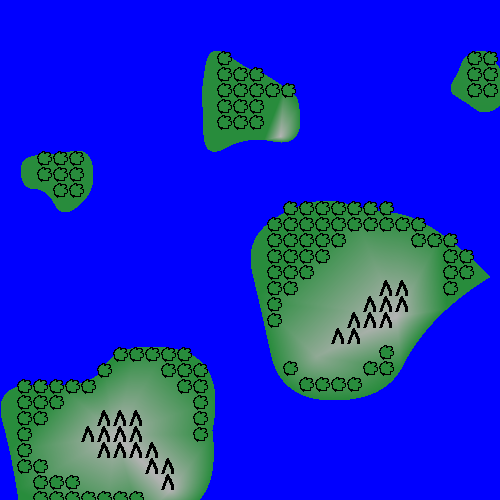
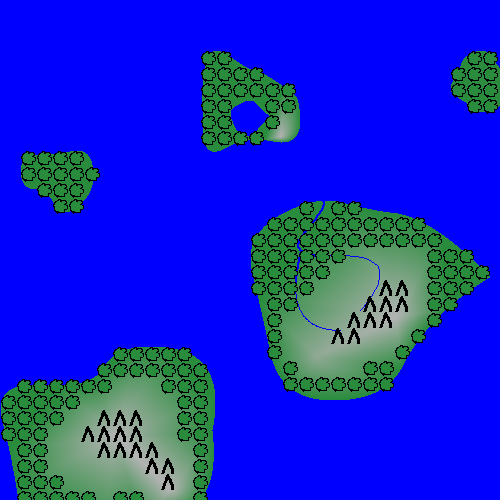
better tree generation

diff --git a/python/River.py b/python/River.py
@@ -24,13 +24,156 @@ class River:
         y_fine = spline_y(t_fine)
         return x_fine,y_fine
     
+    def angle_to_vector(self,angle_degrees):
+        """Konwertuje kąt w stopniach na znormalizowany wektor (dx, dy)."""
+        angle_radians = math.radians(angle_degrees)
+        return (math.cos(angle_radians), math.sin(angle_radians))
+    
+    def generate_river_sine_wave(self,
+        start_point=(0, 0),
+        main_direction_angle=0,  # Kąt w stopniach (0 = wschód, 90 = północ)
+        river_length=500,
+        avg_segment_length=10,
+        base_wave_amplitude=20,
+        amplitude_variance=5,    # Jak bardzo amplituda może się różnić od bazowej
+        base_wave_frequency=0.1, # Mniejsza wartość = dłuższe fale (wpływa na przyrost kąta fali)
+        frequency_variance=0.02, # Jak bardzo częstotliwość może się różnić
+        random_drift_strength=2  # Siła dodatkowego losowego "dryfu"
+    ):
+        """
+        Generuje punkty rzeki o falowym kształcie na bazie funkcji sinus.
 
+        Args:
+            start_point (tuple): Współrzędne (x, y) początku rzeki.
+            main_direction_angle (float): Ogólny kierunek rzeki w stopniach.
+            river_length (float): Docelowa długość rzeki.
+            avg_segment_length (float): Średnia długość pojedynczego segmentu rzeki.
+            base_wave_amplitude (float): Bazowa amplituda fali sinusoidalnej.
+            amplitude_variance (float): Maksymalna losowa zmiana amplitudy.
+            base_wave_frequency (float): Bazowa częstotliwość fali (mnożnik przyrostu kąta).
+                                        Mniejsza wartość daje dłuższe fale.
+            frequency_variance (float): Maksymalna losowa zmiana częstotliwości.
+            random_drift_strength (float): Siła małego, losowego przesunięcia każdego punktu.
+
+        Returns:
+            list: Lista krotek (x, y) reprezentujących punkty rzeki.
+        """
+        river_points = [start_point]
+        current_point = start_point
+        
+        main_dir_vector = self.angle_to_vector(main_direction_angle)
+        # Wektor prostopadły do kierunku głównego (do odchylania rzeki)
+        # Jeśli (dx, dy) to kierunek, to (-dy, dx) jest prostopadły
+        perp_dir_vector = (-main_dir_vector[1], main_dir_vector[0]) 
+        
+        current_wave_angle = 0.0  # Aktualny kąt dla funkcji sinus
+        cumulative_length = 0.0
+
+        while cumulative_length < river_length:
+            # 1. Losuj parametry dla tego segmentu
+            segment_length = random.uniform(
+                avg_segment_length * 0.8, avg_segment_length * 1.2
+            ) # Długość segmentu może się trochę wahać
+            
+            current_amplitude = random.uniform(
+                base_wave_amplitude - amplitude_variance,
+                base_wave_amplitude + amplitude_variance
+            )
+            # Upewnij się, że amplituda nie jest ujemna (chociaż uniform powinien to załatwić, jeśli base > variance)
+            current_amplitude = max(0, current_amplitude) 
+
+            current_frequency_factor = random.uniform(
+                base_wave_frequency - frequency_variance,
+                base_wave_frequency + frequency_variance
+            )
+            current_frequency_factor = max(0.001, current_frequency_factor) # Unikaj zerowej lub ujemnej częstotliwości
+
+            # 2. Oblicz przesunięcie falowe
+            # Przesunięcie jest prostopadłe do głównego kierunku rzeki
+            wave_displacement_scalar = math.sin(current_wave_angle) * current_amplitude
+            
+            # 3. Oblicz wektor przesunięcia dla tego segmentu
+            # Komponent wzdłuż głównego kierunku
+            main_displacement_x = main_dir_vector[0] * segment_length
+            main_displacement_y = main_dir_vector[1] * segment_length
+            
+            # Komponent prostopadły (falowy)
+            wave_displacement_x = perp_dir_vector[0] * wave_displacement_scalar
+            wave_displacement_y = perp_dir_vector[1] * wave_displacement_scalar
+            
+            # 4. Dodaj losowy dryft
+            drift_x = random.uniform(-random_drift_strength, random_drift_strength)
+            drift_y = random.uniform(-random_drift_strength, random_drift_strength)
+            
+            # 5. Oblicz pozycję nowego punktu
+            new_x = current_point[0] + main_displacement_x + wave_displacement_x + drift_x
+            new_y = current_point[1] + main_displacement_y + wave_displacement_y + drift_y
+            new_point = (new_x, new_y)
+            
+            # 6. Aktualizacja
+            river_points.append(new_point)
+            current_point = new_point
+            
+            # Zwiększ kąt fali. Mnożenie przez segment_length sprawia, że
+            # "gęstość" fal jest bardziej spójna niezależnie od długości segmentu.
+            current_wave_angle += current_frequency_factor * segment_length 
+            
+            cumulative_length += segment_length
+            
+        return river_points
 
     def get_neighbors(self):
         x = self.current_point[0]
         y = self.current_point[1]
         neighbors = [[x-1,y-1],[x,y-1],[x+1,y-1],[x+1,y],[x+1,y+1],[x,y+1],[x-1,y+1],[x-1,y]]
         return neighbors
+    
+    
+# r = River([[2,5],[4,6],[10,10]])
+# river1_points = r.generate_river_sine_wave(
+#     start_point=(50, 250),
+#     main_direction_angle=20,  # Lekko w górę i w prawo
+#     river_length=800,
+#     avg_segment_length=15,
+#     base_wave_amplitude=40,
+#     amplitude_variance=15,
+#     base_wave_frequency=0.04, # Mniejsza wartość = dłuższe fale
+#     frequency_variance=0.01,
+#     random_drift_strength=3
+# )
+
+# river2_points = r.generate_river_sine_wave(
+#     start_point=(50, 100),
+#     main_direction_angle=-10, # Lekko w dół i w prawo
+#     river_length=600,
+#     avg_segment_length=10,
+#     base_wave_amplitude=15,
+#     amplitude_variance=5,
+#     base_wave_frequency=0.1, # Większa wartość = krótsze, gęstsze fale
+#     frequency_variance=0.03,
+#     random_drift_strength=1
+# )
+
+# # Wizualizacja rzeki
+# plt.figure(figsize=(12, 8))
+
+# # Rzeka 1
+# x_coords1, y_coords1 = zip(*river1_points) # Rozpakowanie listy krotek na osobne listy x i y
+# plt.plot(x_coords1, y_coords1, label="Rzeka 1 (dłuższe fale)", color="blue", linewidth=2)
+# plt.scatter([river1_points[0][0]], [river1_points[0][1]], color="green", s=50, zorder=5, label="Start Rzeki 1") # Zaznacz start
+
+# # Rzeka 2
+# x_coords2, y_coords2 = zip(*river2_points)
+# plt.plot(x_coords2, y_coords2, label="Rzeka 2 (krótsze fale)", color="cyan", linewidth=1.5)
+# plt.scatter([river2_points[0][0]], [river2_points[0][1]], color="lime", s=50, zorder=5, label="Start Rzeki 2")
+
+# plt.title("Wygenerowane Rzeki (Metoda Sinusoidalna)")
+# plt.xlabel("X")
+# plt.ylabel("Y")
+# plt.legend()
+# plt.grid(True)
+# plt.axis('equal') # Aby osie miały tę samą skalę, co daje lepsze poczucie proporcji
+# plt.show()
 
 # river = River([100,100])
 # print(river.get_lowest_neighbor())

diff --git a/python/World.py b/python/World.py
@@ -102,7 +102,6 @@ class World:
         
         if valid_br_coords.size > 0:
             is_right_on_land[br_in_bounds] = (land.height_map[valid_br_coords[:, 1], valid_br_coords[:, 0]] > linia_gor)
-        
         is_inside = is_left_on_land & is_right_on_land
         squares_inside_polygon = squares[is_inside]
         
@@ -118,6 +117,7 @@ class World:
             
         bottom_left_corners = (squares + np.array([0, square_size])).astype(int)
         bottom_right_corners = (squares + np.array([square_size, square_size])).astype(int)
+        centers = (squares + np.array([square_size//2,square_size//2])).astype(int)
 
         bl_in_bounds = (bottom_left_corners[:, 0] < map_width) & \
                     (bottom_left_corners[:, 0] >= 0) & \
@@ -128,20 +128,33 @@ class World:
                     (bottom_right_corners[:, 0] >= 0) & \
                     (bottom_right_corners[:, 1] < map_height) & \
                     (bottom_right_corners[:, 1] >= 0)
+        cent_in_bounds = (centers[:, 0] < map_width) & \
+                    (centers[:, 0] >= 0) & \
+                    (centers[:, 1] < map_height) & \
+                    (centers[:, 1] >= 0)
+        bl_in_world_bounds = (bottom_left_corners[:,0]+land.start[0] < self.size[0]//2) & (bottom_left_corners[:,1] +land.start[1] < self.size[1]//2)           
+        br_in_world_bounds = (bottom_right_corners[:,0]+land.start[0] < self.size[0]//2) & (bottom_right_corners[:,1]+land.start[1] < self.size[1]//2)
+        cent_int_world_bounds = (centers[:,0]+land.start[0] < self.size[0]//2) & (centers[:,1]+land.start[1] < self.size[1]//2)
         is_left_on_land = np.zeros(len(squares), dtype=bool)
         is_right_on_land = np.zeros(len(squares), dtype=bool)
-
-        valid_bl_coords = bottom_left_corners[bl_in_bounds]
-        valid_br_coords = bottom_right_corners[br_in_bounds]
+        is_cent_on_land = np.zeros(len(squares), dtype=bool)
+        bl_in_bounds_final = bl_in_bounds
+        br_in_bounds_final = br_in_bounds
+        cent_in_bounds_final = cent_int_world_bounds & cent_in_bounds
+        valid_bl_coords = bottom_left_corners[bl_in_bounds_final]
+        valid_br_coords = bottom_right_corners[br_in_bounds_final]
+        valid_cent_coords = centers[cent_in_bounds_final]
         linia_wzgorz = (self.maks+self.mini)//3
         linia_gor = 2*(self.maks+self.mini)//3
         if valid_bl_coords.size > 0:
-            is_left_on_land[bl_in_bounds] = (land.height_map[valid_bl_coords[:, 1], valid_bl_coords[:, 0]] < linia_wzgorz)
+            is_left_on_land[bl_in_bounds_final] = (land.height_map[valid_bl_coords[:, 1], valid_bl_coords[:, 0]] < linia_wzgorz)
         
         if valid_br_coords.size > 0:
-            is_right_on_land[br_in_bounds] = (land.height_map[valid_br_coords[:, 1], valid_br_coords[:, 0]] < linia_wzgorz)
+            is_right_on_land[br_in_bounds_final] = (land.height_map[valid_br_coords[:, 1], valid_br_coords[:, 0]] < linia_wzgorz)
+        if valid_cent_coords.size >0:
+            is_cent_on_land[cent_in_bounds_final] =(land.height_map[valid_cent_coords[:, 1], valid_cent_coords[:, 0]] < linia_wzgorz) & ~(np.isnan(self.hmap[valid_cent_coords[:,1]+self.size[1]//2+int(land.start[1]),valid_cent_coords[:,0]+self.size[0]//2+int(land.start[0])]))
         
-        is_inside = is_left_on_land & is_right_on_land
+        is_inside =is_cent_on_land
         squares_inside_polygon = squares[is_inside]
         
         return squares_inside_polygon
@@ -297,19 +310,21 @@ class World:
     def give_palette(self):
         
         for land in self.lands:
-            squares = self.fill_land_with_mountain_squares(land)
             self.paste_land_onto_map(land)
+            
+        for river in self.rivers:
+            self.give_color_to_river_new_algo(river)
+        for lake in self.lakes:
+            self.paste_lake_onto_land(lake)
+                
+        for land in self.lands:
+            squares = self.fill_land_with_mountain_squares(land)
             for square in squares:
                 self.paste_mountain_stamp_onto_map(land=land,position=square)
             t_squares = self.fill_land_with_tree_squares(land)
             for square in t_squares:
                 self.paste_tree_stamp_onto_map(land=land,position=square)
-            
-           
-        for river in self.rivers:
-            self.give_color_to_river_new_algo(river)
-        for lake in self.lakes:
-            self.paste_lake_onto_land(lake)
+        
         hmap_scaled = self.scale_down_to_256(self.hmap)
         
         map_image = Image.new('P', (self.size[0],self.size[1]))
